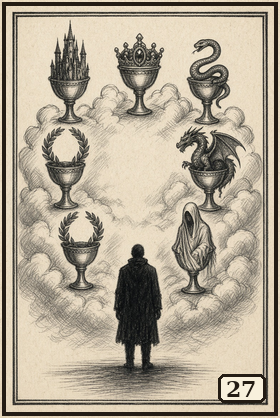
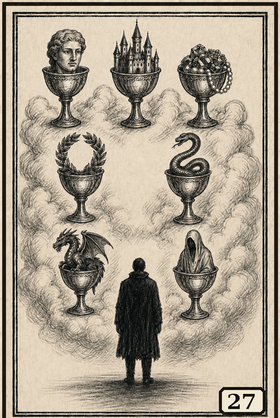
Add files via upload

diff --git a/index.html b/index.html
@@ -663,6 +663,15 @@
       return card ? card.slug : String(d);
     }
 
[1 lines of base64/hex data omitted]
+
+    function cardImageSrc(v) {
+      // Keep the revised Seven of Cups embedded so the single-file app also
+      // works in iOS HTML viewers that cannot resolve neighboring assets.
+      if (v === 27) return CARD_27_MONO;
+      return CARD_IMG[v] || `cards/${String(v).padStart(2, "0")}.png`;
+    }
+
     function toBase30Glyphs(n) {
       n = Math.max(0, Math.floor(n));
       if (n === 0) return [digitSlug(0)];
@@ -777,7 +786,7 @@
       spread.innerHTML = slugs.map((slug) => {
         const card = TAROT_BY_SLUG[slug];
         const v = card ? card.v : 0;
-        const src = CARD_IMG[v] || `cards/${String(v).padStart(2,"0")}.png`;
+        const src = cardImageSrc(v);
         return `<img src="${src}" alt="${card ? card.name : slug} = ${v}">`;
       }).join("");
     }
@@ -840,7 +849,7 @@
       btn.title = card.name + " = " + card.v;
       btn.textContent = "";
       const img = document.createElement("img");
-      img.src = CARD_IMG[card.v] || `cards/${String(card.v).padStart(2, "0")}.png`;
+      img.src = cardImageSrc(card.v);
       img.alt = card.name + " =" + card.v;
       btn.appendChild(img);
       keys.appendChild(btn);
